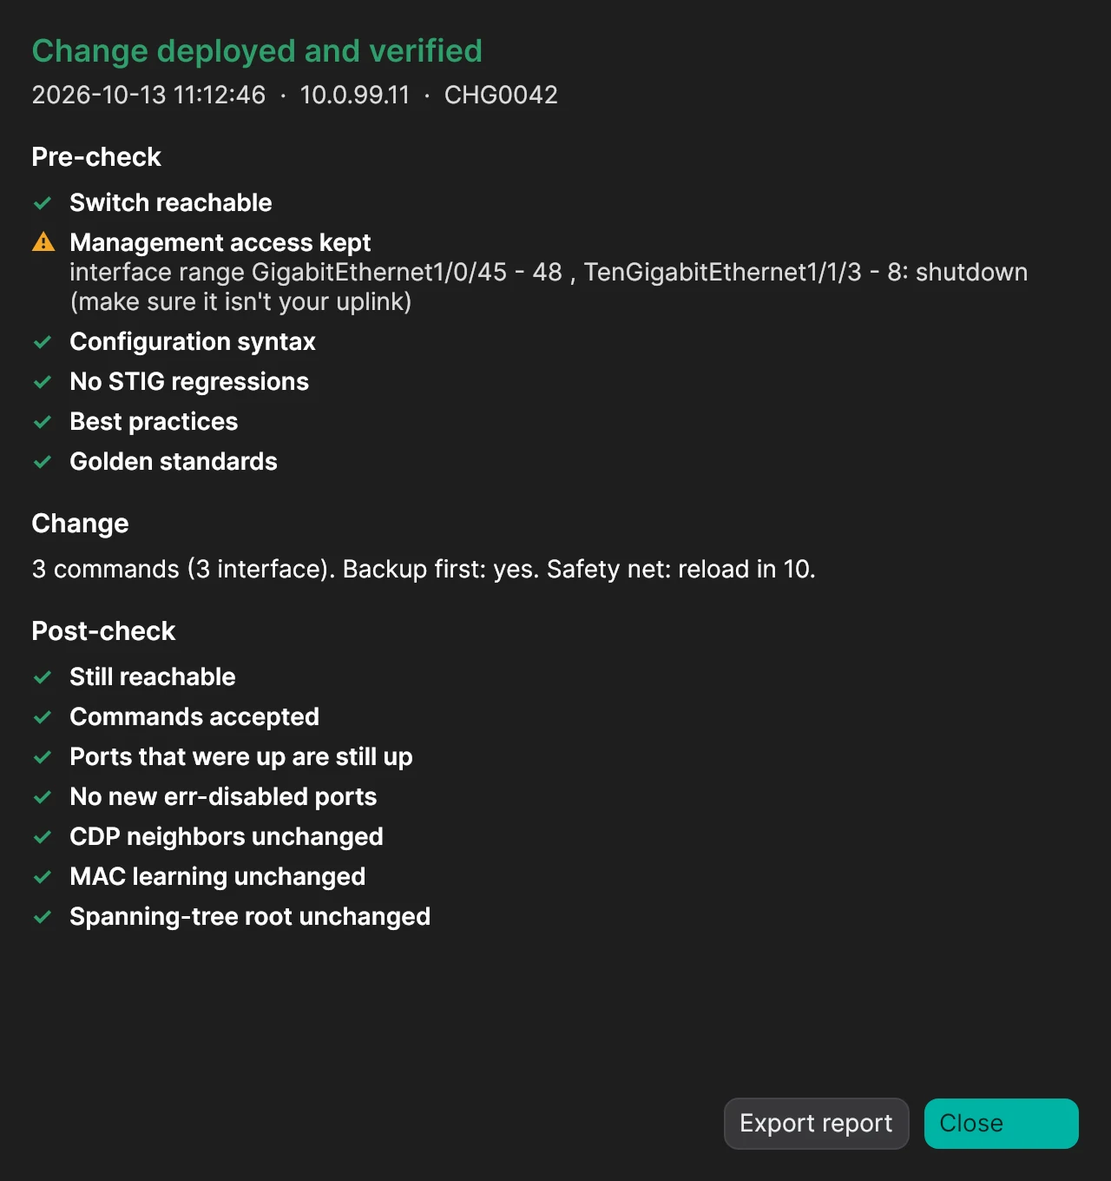
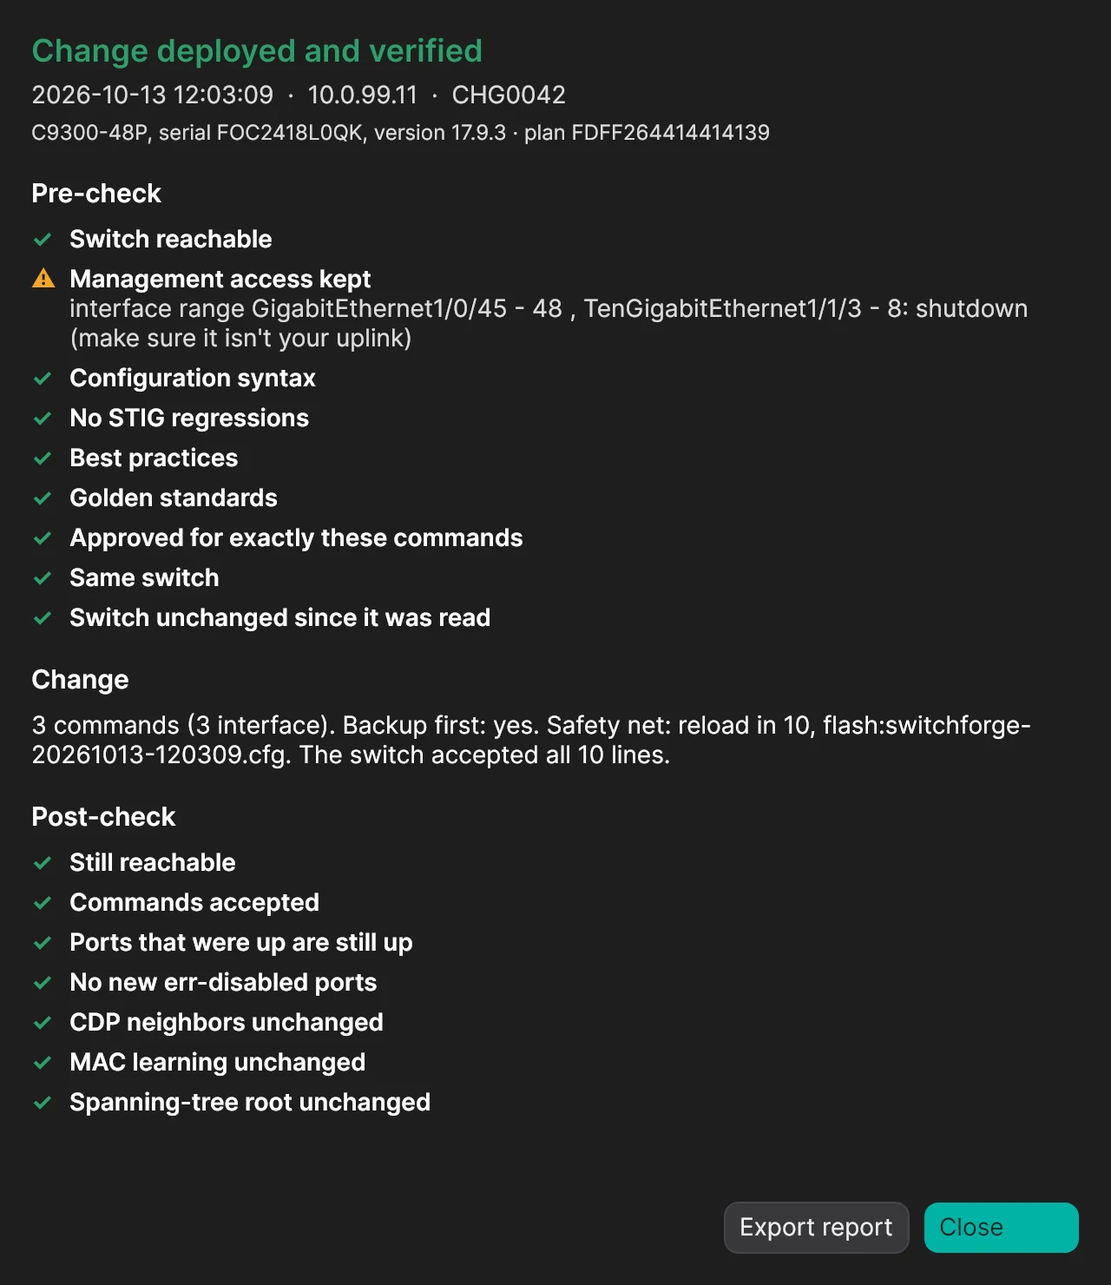
Download page: tighten claims, recapture the commit shots, fix phone breaks
The security, deploy and download copy now says only what every path in
the app does. The commit screenshots show the ticket and the approval and
same-switch lines a real record has. Section subtitles and the hero
heading no longer leave a short last line on phones, and the version line
and file sizes break cleanly once the release is looked up.

Claude-Session: https://claude.ai/code/session_01Rfs9hHia5PPA9rueXJQBDx

Changed region(s): [[0.0312, 0.0309, 0.9375, 0.4941], [0.0312, 0.525, 0.9375, 0.8647], [0.6562, 0.9265, 0.9688, 0.9882]]

diff --git a/index.html b/index.html
@@ -286,6 +286,7 @@ footer p{max-width:66ch}
   #lb .next{right:calc(50% - 56px)}
 }
 @media (max-width:600px){
+  .hero h1{font-size:min(36px,9vw)}
   .wrap{padding:0 16px}
   .top .wrap{gap:12px}
   .hero{padding-top:56px}
@@ -400,7 +401,7 @@ footer p{max-width:66ch}
         <div>
           <div class="tags"><span class="tag e">ERROR</span><span class="tag w">WARNING</span><span class="tag i">INFO</span><span class="tag c">COMPLIANCE</span></div>
           <h3>A debugger that knows IOS</h3>
-          <p>Every line is checked as you type. Problem lines are underlined in the editor, and the debugger lists each issue with a <b>Why?</b> that explains it.</p>
+          <p>Every line is checked as you type. Problem lines are underlined in the editor, and the debugger lists each issue. Pick one to see why it's a problem.</p>
         </div>
         <ul class="ticks">
           <li><b>Invalid values</b>, like an NTP server of 10.20.30.999 or a static route to a next hop of 10.20.400.1</li>
@@ -413,7 +414,7 @@ footer p{max-width:66ch}
         <div class="frame"><img src="assets/img/debugger.webp?v=0.7.0-2" srcset="assets/img/debugger.webp?v=0.7.0-2 1x, assets/img/debugger@2x.webp?v=0.7.0-2 2x" data-full="assets/img/debugger@2x.webp?v=0.7.0-2"
           width="1368" height="912" loading="lazy"
           alt="The Configuration page with a test config loaded: the Global form on the left, the config text in the middle, and the debugger underneath listing 21 problems, including an invalid NTP server, an invalid static route next hop, spanning-tree priority 4097 and Vlan10 overlapping the management subnet, with 14 more on its Compliance tab. On the right, Why is this a problem? explains that 10.20.30.999 isn't a valid IPv4 address, with Show in text and Edit in Design buttons."
-          data-cap="A test config full of deliberate mistakes: 21 problems listed under the editor, and the Why? panel explaining the invalid NTP server, with Show in text and Edit in Design."></div>
+          data-cap="A test config full of deliberate mistakes: 21 problems listed under the editor, and the panel explaining why the NTP server is invalid, with Show in text and Edit in Design."></div>
         <figcaption>A test config full of deliberate mistakes, with the reason for the selected one on the right.</figcaption>
       </figure>
     </div>
@@ -440,7 +441,7 @@ footer p{max-width:66ch}
     <div class="feature flip">
       <div class="copy reveal">
         <h3>ACLs without the guesswork</h3>
-        <p>Build named standard and extended ACLs one rule per row, with the generated CLI underneath.</p>
+        <p>Build named standard and extended ACLs rule by rule, with the generated CLI underneath.</p>
         <ul class="ticks">
           <li><b>Extended rules</b> with protocol, source, destination and ports</li>
           <li><b>Reorder rules</b> by dragging the handle or with the arrows</li>
@@ -461,11 +462,11 @@ footer p{max-width:66ch}
       <div class="cards reveal">
         <div class="card"><h4>Routing policy</h4><p>Key chains, prefix lists and route maps, with checks for undefined, unused and deny-only items, and for routing neighbors that are unauthenticated or use MD5.</p></div>
         <div class="card"><h4>Layer 2</h4><p>Spanning tree priorities and MST regions, EtherChannel with LACP, UDLD, CDP and LLDP, and storm control.</p></div>
-        <div class="card"><h4>Access security</h4><p>RADIUS and TACACS+ server groups, 802.1X with a warning if it could cut off management, DHCP snooping and ARP inspection trust, CoPP and IPv6 <span class="nw">first-hop</span> security.</p></div>
+        <div class="card"><h4>Access security</h4><p>RADIUS and TACACS+ server groups, 802.1X with a warning if it could cut off management, DHCP snooping and ARP inspection trust, CoPP, and IPv6 RA guard and DHCPv6 guard on IOS&nbsp;XE.</p></div>
         <div class="card"><h4>QoS</h4><p>Class maps, policy maps and service policies, with a voice preset for ports with a voice VLAN.</p></div>
         <div class="card"><h4>Gateways and DHCP</h4><p>HSRP and VRRP, DHCP relay and pools, and VRF-lite. Compare with peer lists the HSRP or VRRP differences between two switches.</p></div>
         <div class="card"><h4>Management and monitoring</h4><p>SNMPv3, syslog, NetFlow, SPAN and RSPAN, stack provisioning and PoE per port.</p></div>
-        <div class="card"><h4>Import a <span class="nw">running-config</span></h4><p>Every line is kept as it was until you edit it, and the switch model is detected automatically.</p></div>
+        <div class="card"><h4>Import a <span class="nw">running-config</span></h4><p>The switch model is detected, and lines stay exactly as the file had them until you edit them. The import report lists anything that wouldn't come back unchanged.</p></div>
         <div class="card"><h4>Copy and paste ports</h4><p>Right-click a port to copy its settings and paste them onto any selection.</p></div>
         <div class="card"><h4>Scripts and bulk staging</h4><p>Config snippets with variables, Tcl or Python for the switch, and many switches staged from a spreadsheet.</p></div>
       </div>
@@ -485,7 +486,7 @@ footer p{max-width:66ch}
         <div>
           <div class="tags"><span class="tag e">CAT I</span><span class="tag w">CAT II</span><span class="tag i">CAT III</span><span class="tag g">NOT A FINDING</span></div>
           <h3>DISA STIGs, rule by rule</h3>
-          <p>Load the DISA zip, an XCCDF file or a STIG Viewer checklist. Shown here: the Cisco IOS XE Switch L2S STIG, V3R2, checking ACCESS-SW01.</p>
+          <p>Load the DISA zip, an XCCDF file or a STIG Viewer checklist. Shown here: the Cisco IOS XE Switch L2S STIG, V3R2, checking the config generated for ACCESS-SW01.</p>
         </div>
         <ul class="ticks">
           <li><b>Evidence written to the checklist</b>: the config lines behind every result</li>
@@ -542,27 +543,27 @@ footer p{max-width:66ch}
     <div class="sec-head reveal">
       <span class="eyebrow">Deploy</span>
       <h2>Every commit has a way&nbsp;back</h2>
-      <p>Safe Commit sends only the lines that changed. Every commit, from the editor, a drift fix, Bulk or the MAC finder, gets the same approval, backup and checks afterwards.</p>
+      <p>Safe Commit sends only the lines that changed. Every commit, from the editor, a drift fix, Bulk or the MAC finder, goes through the same approval, recovery point and <span class="nw">command-by-command</span> checks. A backup and a before/after check are on by default, except for quick port fixes from the MAC finder.</p>
     </div>
     <div class="duo">
       <figure class="reveal">
-        <div class="frame"><img src="assets/img/commit.webp?v=0.7.0-2" srcset="assets/img/commit.webp?v=0.7.0-2 1x, assets/img/commit@2x.webp?v=0.7.0-2 2x" data-full="assets/img/commit@2x.webp?v=0.7.0-2"
+        <div class="frame"><img src="assets/img/commit.webp?v=0.7.0-3" srcset="assets/img/commit.webp?v=0.7.0-3 1x, assets/img/commit@2x.webp?v=0.7.0-3 2x" data-full="assets/img/commit@2x.webp?v=0.7.0-3"
           width="780" height="840" loading="lazy"
-          alt="54 changes to commit to ACCESS-SW01 (10.0.99.11), saying only these commands will be sent, one at a time, after a copy of the running-config is saved to flash. Pre-flight: switch reachable, a warning under Management access kept that Gi1/0/45-48 and Te1/1/3-8 will be shut down so make sure none is the uplink, then configuration syntax, no STIG regressions, best practices and golden standards passed. Below are the 10 command lines that will be sent, a change ticket field, and options to back up first, schedule a reload in 10 as a safety net, check the switch before and after, and save to startup-config."
+          alt="54 changes to commit to ACCESS-SW01 (10.0.99.11), saying only these commands will be sent, one at a time, after a copy of the running-config is saved to flash. Pre-flight: switch reachable, a warning under Management access kept that Gi1/0/45-48 and Te1/1/3-8 will be shut down so make sure none is the uplink, then configuration syntax, no STIG regressions, best practices and golden standards passed. Below are the 10 command lines that will be sent in 3 interface blocks, the change ticket CHG0042, and options to back up first, schedule a reload in 10 as a safety net, check the switch before and after, and save to startup-config."
           data-cap="Before: only the changed lines, with the pre-flight checks. A warning flags the ports that will be shut down. You can edit the commands before committing."></div>
         <figcaption><b>Before.</b> 54 port changes go out as 10 lines in 3 interface ranges, and the pre-flight warns about the ports being shut down.</figcaption>
       </figure>
       <figure class="reveal">
-        <div class="frame"><img src="assets/img/commit-report.webp?v=0.7.0-2" srcset="assets/img/commit-report.webp?v=0.7.0-2 1x, assets/img/commit-report@2x.webp?v=0.7.0-2 2x" data-full="assets/img/commit-report@2x.webp?v=0.7.0-2"
-          width="640" height="680" loading="lazy"
-          alt="Change deployed and verified on 10.0.99.11 with ticket CHG0042: the same pre-checks, the change with a backup first and a reload-in-10 safety net, and every post-check passed, from still reachable to spanning-tree root unchanged, with an Export report button."
-          data-cap="After: the deployment record, ready for the change ticket."></div>
-        <figcaption><b>After.</b> The record for change CHG0042, with every post-check passed, exportable as HTML.</figcaption>
+        <div class="frame"><img src="assets/img/commit-report.webp?v=0.7.0-3" srcset="assets/img/commit-report.webp?v=0.7.0-3 1x, assets/img/commit-report@2x.webp?v=0.7.0-3 2x" data-full="assets/img/commit-report@2x.webp?v=0.7.0-3"
+          width="640" height="740" loading="lazy"
+          alt="Change deployed and verified on 10.0.99.11 with ticket CHG0042, for a C9300-48P on 17.9.3, with its serial and plan hash. The pre-checks from before the commit are followed by three more that passed: approved for exactly these commands, same switch, and switch unchanged since it was read. The change had a backup first, a reload-in-10 safety net and a recovery point on flash, and the switch accepted all 10 lines. Every post-check passed, from still reachable to spanning-tree root unchanged, with an Export report button."
+          data-cap="After: the deployment record for CHG0042, with the approval, the same-switch check, every line accepted and every post-check passed."></div>
+        <figcaption><b>After.</b> The record for change CHG0042: approved, the same switch, every line accepted and every post-check passed. Exportable as HTML.</figcaption>
       </figure>
     </div>
     <div class="phases reveal">
-      <div class="phase"><span class="k">Pre-flight</span><p>The switch is reachable and nothing cuts off management access. For changes from the editor, the switch must also be the one you read and unchanged since, with no debugger errors and no STIG or <span class="nw">golden-standard</span> regressions.</p></div>
-      <div class="phase"><span class="k">Change</span><p>You approve the exact commands, and risky ones need the hostname typed. A backup and a recovery point come first, then a <span class="nw">reload-in-10</span> safety net (or an <span class="nw">NX-OS</span> checkpoint). Commands go one at a time and stop at the first one the switch refuses.</p></div>
+      <div class="phase"><span class="k">Pre-flight</span><p>The switch is reachable, and any command that could cut off management access is flagged. For changes from the editor, the commit stops if the switch isn't the one you read or has changed since, and debugger errors and STIG or <span class="nw">golden-standard</span> regressions are flagged before you approve.</p></div>
+      <div class="phase"><span class="k">Change</span><p>You approve the exact commands, and risky ones need the hostname typed. A backup and a recovery point (a flash copy, or a checkpoint on <span class="nw">NX-OS</span>) come first, then on IOS and IOS&nbsp;XE a <span class="nw">reload-in-10</span> safety net. Commands go one at a time and stop at the first one the switch refuses.</p></div>
       <div class="phase"><span class="k">Post-check</span><p>Still reachable, every command accepted, and before/after compared: ports, <span class="nw">err-disabled</span>, CDP neighbors, MAC learning, the <span class="nw">spanning-tree</span> root, and OSPF, EIGRP and BGP neighbors. A failed check offers a rollback, confirmed by reading the config back.</p></div>
     </div>
     <p class="note reveal">These safeguards are tested against a simulated switch so far. Try them on a lab switch first, and tell us how it went.</p>
@@ -584,7 +585,7 @@ footer p{max-width:66ch}
         </div>
         <ul class="ticks">
           <li><b>Reachable switches, STIG compliance, open CAT I findings, drift and backups</b> across the top</li>
-          <li><b>The switches that need attention</b>, worst first, with the reason on each row</li>
+          <li><b>The switches that need attention</b>, most urgent first, with the reason on each row</li>
           <li><b>Findings by severity</b>, recent activity from the change log, and your recent projects</li>
         </ul>
       </div>
@@ -604,14 +605,14 @@ footer p{max-width:66ch}
         </div>
         <ul class="ticks">
           <li><b>Core, distribution and access</b> layers, laid out automatically</li>
-          <li><b>Links colored</b> by trunk or routed, and labelled with the port on each end</li>
+          <li><b>Links colored</b> by trunk or routed, and labelled with the port on each end where there's room</li>
           <li><b>Endpoints</b> like phones and access points tucked under their switch behind a badge, and switches that couldn't be read outlined in red</li>
         </ul>
       </div>
       <figure class="reveal">
         <div class="frame"><img src="assets/img/topology.webp?v=0.7.0-2" srcset="assets/img/topology.webp?v=0.7.0-2 1x, assets/img/topology@2x.webp?v=0.7.0-2 2x" data-full="assets/img/topology@2x.webp?v=0.7.0-2"
           width="1545" height="610" loading="lazy"
-          alt="The Topology map: CORE-SW01, WAN-RTR01 and CORE-SW02 in the core layer, DIST-SW01 and DIST-SW02 in distribution, and five access switches below, linked by blue trunk lines and purple routed lines labelled with the port names on each end. ACCESS-SW05 has a dashed red border and says couldn't read, and ACCESS-SW01 and ACCESS-SW02 carry 2 endpoints and 1 endpoint badges."
+          alt="The Topology map: CORE-SW01, WAN-RTR01 and CORE-SW02 in the core layer, DIST-SW01 and DIST-SW02 in distribution, and five access switches below, linked by blue trunk lines and purple routed lines, most labelled with the port names on each end. ACCESS-SW05 has a dashed red border and says couldn't read, and ACCESS-SW01 and ACCESS-SW02 carry 2 endpoints and 1 endpoint badges."
           data-cap="Topology: core, distribution and access layers, with trunks in blue, routed links in purple, and a switch that couldn't be read outlined in red."></div>
       </figure>
     </div>
@@ -622,14 +623,14 @@ footer p{max-width:66ch}
         <p>The changes since a switch's last known-good backup, in plain language, with security-related changes first.</p>
         <ul class="ticks">
           <li><b>Compared with the known-good backup</b>: one saved after a Safe Commit that passed, or marked by hand</li>
-          <li><b>Security changes first</b>, like an SNMP community added, with the community itself removed</li>
+          <li><b>Security changes first</b>, like an SNMP community added, with the community string hidden</li>
           <li><b>Grouped</b> into VLANs and management settings, then the <span class="nw">line-by-line</span> diff</li>
         </ul>
       </div>
       <figure class="reveal">
         <div class="frame"><img src="assets/img/whatchanged.webp?v=0.7.0-2" srcset="assets/img/whatchanged.webp?v=0.7.0-2 1x, assets/img/whatchanged@2x.webp?v=0.7.0-2 2x" data-full="assets/img/whatchanged@2x.webp?v=0.7.0-2"
           width="832" height="824" loading="lazy"
-          alt="What changed on DIST-SW02, from its known-good backup of 2026-10-06 14:12 to its newest backup of 2026-10-13 11:11: 4 changes, 1 touching security. Security-related comes first: an SNMP community was added, its value shown as removed. Then VLAN 77 TEMP-VENDOR was added and an NTP server was replaced, followed by the line-by-line diff with 4 lines added in green and 1 removed in red."
+          alt="What changed on DIST-SW02, from its known-good backup of 2026-10-06 14:12 to its newest backup of 2026-10-13 11:11: 4 changes, 1 touching security. Security-related comes first: an SNMP community was added, its string hidden. Then VLAN 77 TEMP-VENDOR was added, and an NTP server was removed and another added, followed by the line-by-line diff with 4 lines added in green and 1 removed in red."
           data-cap="What changed on DIST-SW02 since its known-good backup: the security change first, then grouped changes and the line-by-line diff."></div>
       </figure>
     </div>
@@ -650,7 +651,7 @@ footer p{max-width:66ch}
         <div class="frame"><img src="assets/img/versions.webp?v=0.7.0-2" srcset="assets/img/versions.webp?v=0.7.0-2 1x, assets/img/versions@2x.webp?v=0.7.0-2 2x" data-full="assets/img/versions@2x.webp?v=0.7.0-2"
           width="1368" height="912" loading="lazy"
           alt="The Versions page: 10 switches, 6 with advisories (1 affected by a critical or high one), 3 at end of sale or support, and every release known exactly. ACCESS-SW01 on IOS XE 17.9.3 is selected: it is marked Affected by the critical IOS XE web UI advisory because its config turns on the web UI, and its release is past support. A note at the bottom says the bundled data is a starter set, with Import data file and Online check links."
-          data-cap="Versions: ACCESS-SW01 is affected by the web UI advisory because its config turns on ip http server."></div>
+          data-cap="Versions: ACCESS-SW01 is affected by the web UI advisory because its config turns on the web UI."></div>
       </figure>
     </div>
 
@@ -674,7 +675,7 @@ footer p{max-width:66ch}
     <div class="sec-head reveal">
       <span class="eyebrow">Built for secure environments</span>
       <h2>Runs on one Windows&nbsp;PC. No cloud, no&nbsp;sign-up.</h2>
-      <p>Backups, project files and saved passwords are encrypted for your Windows account and stay on this PC. It reaches only the switches you name, plus Cisco's advisory service if you turn that on.</p>
+      <p>Backups, project files and saved passwords are encrypted for your Windows account. It connects only to the switches you name and the CDP and LLDP neighbors that topology discovery finds, plus Cisco's advisory service if you turn it on.</p>
     </div>
     <div class="cards reveal">
       <div class="card">
@@ -755,9 +756,9 @@ footer p{max-width:66ch}
       </a>
     </div>
     <div class="steps">
-      <div><b><i>1</i>Check the file</b>Test builds aren't code-signed yet, so compare the hash: run <code>Get-FileHash</code> on the download in PowerShell and find the same value in <code>SHA256SUMS.txt</code>.</div>
+      <div><b><i>1</i>Check the file</b>Test builds aren't code-signed yet, so check that the file arrived intact: run <code>Get-FileHash</code> on the download in PowerShell and find the same value in <code>SHA256SUMS.txt</code>.</div>
       <div><b><i>2</i>If SmartScreen warns you</b>Windows says it protected your PC. Click More info, then Run anyway. If your PC only runs signed apps, ask your admin.</div>
-      <div><b><i>3</i>Load your license</b>On the first screen, open the <code>.sflic</code> file from your invitation and set an admin password, which stays on this PC. Without a license the app opens <span class="nw">read-only</span>.</div>
+      <div><b><i>3</i>Load your license</b>On the first screen, open the <code>.sflic</code> file from your invitation. Then accept the tester agreement and set an admin password, which stays on this PC. Without a license the app opens <span class="nw">read-only</span>.</div>
     </div>
   </div>
 
@@ -782,7 +783,7 @@ footer p{max-width:66ch}
       </details>
       <details>
         <summary>Is it FIPS 140 validated?</summary>
-        <p>No. SwitchForge isn't a validated module and hasn't been through CMVP testing. In FIPS mode it uses only FIPS-approved algorithms: its own encryption goes through Windows CNG, the module covered by Microsoft's FIPS 140 validations, and SSH is limited to approved algorithms.</p>
+        <p>No. SwitchForge isn't a validated module and hasn't been through CMVP testing. In FIPS mode it uses only FIPS-approved algorithms: its own encryption goes through Windows CNG, the module covered by Microsoft's FIPS 140 validations, and SSH is limited to approved algorithms, although the SSH library in these test builds isn't itself a validated module.</p>
       </details>
       <details>
         <summary>Is it code-signed?</summary>
@@ -849,14 +850,16 @@ document.querySelectorAll(".lede, .proof, .flow p, main p, main li, main h3, mai
 });
 
 // Body text: the last word of a paragraph keeps a neighbor or two, so no line holds a single short word
-document.querySelectorAll(".card p, .phase p, .feature .copy>p, .wide-head p, .ticks li, .faq p, .steps>div, figcaption, .note, .dl .ver, .file .fname").forEach(el => {
+document.querySelectorAll(".sec-head p, .card p, .phase p, .feature .copy>p, .wide-head p, .ticks li, .faq p, .steps>div, figcaption, .note, .dl .ver, .file .fname").forEach(el => {
   const walk = document.createTreeWalker(el, NodeFilter.SHOW_TEXT);
   let n, last = null;
   while ((n = walk.nextNode())) if (n.data.trim()) last = n;
   if (!last) return;
   const end = last.data.match(/\s*$/)[0], parts = last.data.slice(0, last.data.length - end.length).split(" ");
+  // Subtitles keep a longer last line than body text
+  const sub = el.matches(".sec-head p"), min = sub ? 18 : 12, most = sub ? 4 : 3;
   let k = 2;
-  while (k < 3 && k < parts.length && parts.slice(-k).join(" ").length < 12) k++;
+  while (k < most && k < parts.length && parts.slice(-k).join(" ").length < min) k++;
   if (parts.length < 2) return;
   last.data = (k >= parts.length ? parts.join("\u00a0") : parts.slice(0, -k).join(" ") + " " + parts.slice(-k).join("\u00a0")) + end;
 });
@@ -884,14 +887,15 @@ fetch("https://api.github.com/repos/" + RELEASES_REPO + "/releases/latest", {hea
     when.textContent = date;
     dlVer.textContent = "Version " + ver + ", released ";
     dlVer.append(when, ". Windows 10 or 11, 64-bit.");
-    setParts(document.getElementById("hero-meta"), ["Version " + ver, "Test builds for invited testers", "Works offline"]);
+    setParts(document.getElementById("hero-meta"), ["Test builds for invited testers", "Version " + ver, "Works offline"]);
     document.getElementById("all-releases").href = rel.html_url;
     document.getElementById("foot-notes").href = rel.html_url;
     document.querySelectorAll(".file").forEach(a => {
       const asset = rel.assets.find(x => x.name.includes(a.dataset.match));
       if (!asset) return;
       a.href = asset.browser_download_url;
-      const mb = asset.size > 1048576 ? " · " + Math.round(asset.size / 1048576) + " MB" : "";
+      // The size stays with the name's dot, so a dot never starts a line
+      const mb = asset.size > 1048576 ? "\u00a0· " + Math.round(asset.size / 1048576) + "\u00a0MB" : "";
       a.querySelector(".fname").textContent = asset.name + mb;
     });
   })

diff --git a/README.md b/README.md
@@ -2,7 +2,7 @@
 
 Early builds of a Windows app for building, checking and pushing Cisco switch and router configs. It checks configs against DISA STIGs as you edit, keeps backups, and sends only the changed lines when you push to a switch. These builds are for invited testers, so expect rough edges.
 
-Download the latest build from **[Releases](../../releases)**. There's a tour of what's in it at **[tomadev1.github.io/test-builds](https://tomadev1.github.io/test-builds/)**.
+Download the latest build from **[Releases](../../releases)**. There's a tour of what's in it on the **[test builds page](https://tomadev1.github.io/test-builds/)**.
 
 ## Which file do I want?
 
@@ -17,7 +17,7 @@ Windows 10 or 11, 64-bit. No other software is needed.
 
 ## Installing
 
-1. **Check the download.** Test builds aren't code-signed yet, so this is how you know the file is the real one. In PowerShell run `Get-FileHash .\SwitchForge-<version>-setup.exe` and compare the result with the line in `SHA256SUMS.txt`.
+1. **Check the download.** Test builds aren't code-signed yet, so check that the file arrived intact. In PowerShell run `Get-FileHash .\SwitchForge-<version>-setup.exe` and compare the result with its line in `SHA256SUMS.txt` from the same release.
 2. **If SmartScreen warns you.** Windows may say "Windows protected your PC". Click **More info**, then **Run anyway**. If your PC only runs signed apps, ask your admin.
 3. **Silent install (optional).** `SwitchForge-<version>-setup.exe /VERYSILENT /SUPPRESSMSGBOXES /NORESTART`
 
